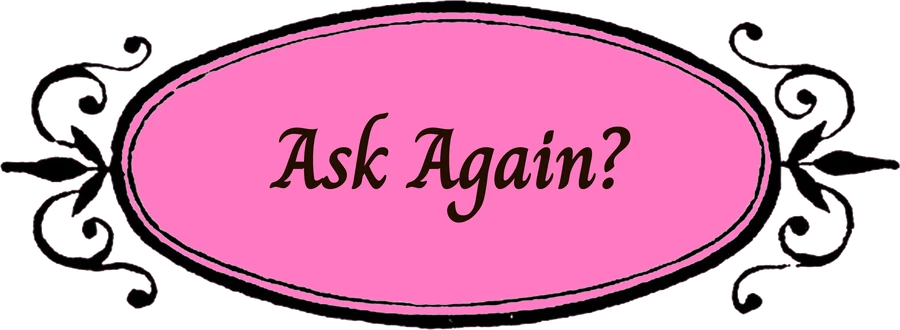
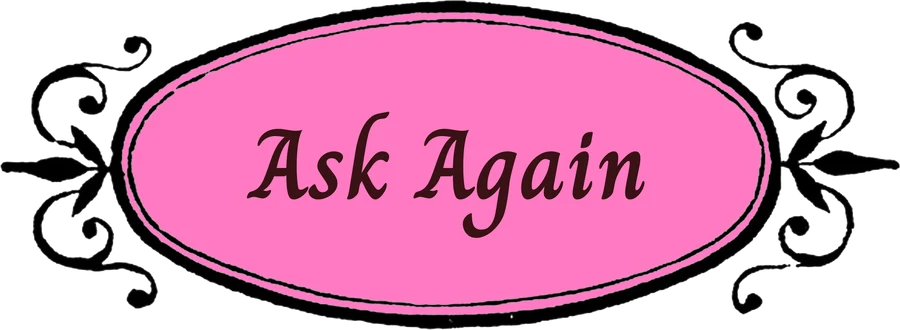
201 fortunes, snarky reading lines, Ask Again written on the new blank button

Changed region(s): [[0.2489, 0.3333, 0.7156, 0.7273]]

diff --git a/fortunes.js b/fortunes.js
@@ -1,109 +1,247 @@
-//Madame Chappell's fortunes. All original lines (no song lyrics), written to fit on the lace card.
-//Add, cut or rewrite freely: one string per fortune, roughly 130 characters max.
+//Madame Chappell's fortunes. One string per fortune, roughly 130 characters max so it fits the card.
+//Sections 1-3 are the user's lines; 4-5 were written with Claude.
 
 const FORTUNES = [
-  // ---- love, crushes and situationships ----
-  "The orb sees a situationship in your future. The orb also sees you calling it \"a vibe\" for eight months.",
-  "Someone is thinking about you right now. Unfortunately it is your ex, and they are thinking \"lol.\"",
-  "You will fall for a straight girl again. The spirits have stopped asking why.",
-  "A woman with a carabiner and an undercut will change your life. Or at least your Spotify.",
-  "Your next date will say \"I don't really listen to music.\" Run, babe. The orb is begging you.",
-  "The one who left you on read will watch your story within the hour. Post the good angle.",
-  "Love is coming. It is wearing a cowboy hat and it is twenty minutes late.",
-  "You will text \"we should hang out sometime\" and the spirits will scream into a pillow for you.",
-  "The orb sees a U-Haul. The orb sees it on the second date. The orb is not judging.",
-  "You are not \"too much.\" They were simply not enough. The orb has spoken, put your lashes back on.",
-  "Your crush has a playlist with your name on it. It is called \"don't.\" Proceed anyway, the orb loves drama.",
-  "A stranger at the merch line will become your soulmate, your roommate, or your reason for a group chat.",
-  "You will kiss someone under a disco ball and immediately tell the group chat. As is tradition.",
-  "Stop checking their horoscope. The orb checked. They're a mess.",
-  "Your soulmate also cried in a car in a Midwest parking lot. You will find each other.",
-  "Somebody's girlfriend is going to look at you a little too long tonight. The orb says: stay iconic, stay out of it.",
+  // --- 1. LOVE, DATING & SITUATIONSHIPS ---
+  "The cards say you’re about to get a 'u up?' text from someone who doesn't even own a bed frame.",
+  "I’m pulling the 'Good Luck, Babe!' card. Someone is gonna wake up in five years and realize they fumbled you.",
+  "Stop romanticizing bare-minimum behavior in a dive bar, honey.",
+  "Your aura is screaming 'I can fix them.' Spoiler alert: you cannot.",
+  "A tall, emotionally unavailable shadow is approaching. Put the phone on Do Not Disturb.",
+  "The universe is begging you to stop checking their Spotify activity.",
+  "You keep treating red flags like they’re a carnival parade. Stop it.",
+  "Someone from your past is thinking about you right now. Let them suffer.",
+  "You’re literally a headliner, so why are you letting them treat you like an opening act?",
+  "The crystal ball is showing a situationship ending because you finally got the ick.",
+  "A new crush is coming, and yes, they actually know how to communicate.",
+  "Put down the phone. Do not double-text. Spirit forbids it.",
+  "Your heart chakra is blocked by someone who wears cargo shorts to nice dinners.",
+  "The cards see you in the passenger seat of a situationship, and honestly? You’re enjoying the ride a little too much.",
+  "The stars say your next kiss will be theatrical, slightly chaotic, and totally worth it.",
+  "You’re about to realize you didn't miss them, you were just bored on a Tuesday.",
+  "Spirit says: 'If they wanted to, they would, babe.'",
+  "Someone has a massive crush on you, and they’re too intimidated by your outfits to say anything.",
+  "A dramatic late-night confession is in your future. Wear waterproof mascara.",
+  "Your love life is currently giving 'mid-tempo sad song,' but a banger is up next.",
+  "Stop giving wife/husband energy to people who can't even text back within 24 hours.",
+  "I’m seeing a future where you block them and immediately feel ten pounds lighter.",
+  "The cards are telling me you need to stop falling for people just because they have good hair.",
+  "A romantic plot twist is coming before the next full moon.",
+  "You are about to outgrow someone you used to beg for attention.",
+  "The spirits are applauding your recent decision to leave them on read.",
+  "Your next partner will match your freak and your Spotify Wrapped.",
+  "I see a messy makeout session in a crowded hallway in your near future.",
+  "Stop stalking their new partner’s Instagram. You’re hotter anyway.",
+  "The universe is sending you someone who actually plans dates.",
+  "You’re in your 'unbothered icon' era, even if you’re still slightly bothered.",
+  "A sweet serenade or an overly dramatic apology is headed your way.",
+  "Don't lower your standards just because Mercury is in retrograde.",
+  "I see you turning down a boring date to stay home and eat snacks. Good choice.",
+  "Someone is still mad that you moved on and glowed up.",
+  "Your aura says you’re ready for romance, but your nervous system says 'run.'",
+  "A casual hangout is about to accidentally turn into a full-blown romance.",
+  "The tarot deck literally just sighed when you asked about your ex.",
+  "You’re going to meet someone cute when you look like an absolute gremlin at the grocery store.",
+  "Stop trying to decode their mixed signals. Mixed signals mean no.",
+  "The spirits say you deserve flowers, devotion, and zero mind games.",
+  "I’m sensing a dramatic rain-soaked argument... or maybe you just forgot an umbrella.",
+  "Your next era involves way less crying over people who don't deserve you.",
+  "Someone is writing a notes-app apology to you as we speak.",
+  "You are too camp to be dating someone with zero personality.",
+  "A secret admirer is watching your stories within three minutes of you posting.",
+  "The crystal ball says: 'Delete their number, keep the playlist.'",
+  "You’re about to get swept off your feet, so wear comfortable boots.",
+  "Love is in the air, right next to the smell of cheap fog machines and hairspray.",
+  "Spirit confirms: you were right about them the whole time.",
 
-  // ---- glitter, outfits, drag ----
-  "Your outfit is not too much. Add more. The orb demands at least one more rhinestone.",
-  "Next week you will be asked \"what's the occasion?\" The answer is: you are the occasion.",
-  "The spirits see a themed outfit in your future. They also see you finishing it with a glue gun at 4 a.m.",
-  "A drag queen will compliment your eyeliner and you will think about it for the rest of your natural life.",
-  "Glitter you wore three years ago is still on you somewhere. It is your lucky charm. Do not wash it off.",
-  "You will find the perfect pink cowboy hat. It will be forty dollars. You will buy two.",
-  "The orb sees body paint, a wig and no plan. The orb sees a great night.",
-  "Someone will ask if you're dressed as a clown. You will say \"yes, and?\" and win the whole day.",
-  "Your eyeshadow will be so loud this week that a man will turn down his car stereo.",
-  "Wear the outfit. The orb has already seen the photos and you look like a Renaissance painting with Wi-Fi.",
-  "You will spend more on a costume than on rent. The spirits approve. Rent is temporary, looks are forever.",
+  // --- 2. CAREER, MONEY & AMBITION ---
+  "Your bank account is in retrograde, honey. Stop buying little treats to cope.",
+  "I see you dramatically quitting a job you hate in slow motion.",
+  "A sudden financial blessing is coming—mostly because you’re gonna forget to go out this weekend.",
+  "Spirit says you’re working way too hard for people who don’t even know the Hot To Go dance.",
+  "You are destined for greatness, glamour, and finally figuring out your taxes.",
+  "An unexpected email is going to make your week.",
+  "Stop answering work messages after 5 PM. The spirits demand boundaries.",
+  "I’m seeing a promotion, a raise, or at least a really good free lunch at work.",
+  "Your creative energy is peaking right now. Make something weird.",
+  "A risky project you’ve been putting off is actually going to pay off.",
+  "The cards say 'act your wage' until further notice.",
+  "Money flows to you effortlessly—right before it flows straight to iced coffee.",
+  "Someone in a position of power is about to notice your talent.",
+  "You’re about to have a 'fake it till you make it' moment that actually works.",
+  "Stop shrinking yourself to fit into a boring corporate box.",
+  "A lucrative side hustle is hovering in your aura.",
+  "I see you thriving in a career that makes your high school self proud.",
+  "The universe is clearing out dead-end opportunities to make room for your spotlight.",
+  "Take the leap. Worst-case scenario, it’s a funny story for later.",
+  "Your imposter syndrome is lying to you again. Tell it to shut up.",
+  "A big payday is on the horizon, so start planning your celebratory outfit.",
+  "You’re about to outshine everyone in the room without even trying.",
+  "Spirit advises against impulse-shopping at 2 AM tonight.",
+  "A collaboration with a friend is going to turn out way better than expected.",
+  "You are not behind in life; you’re just taking the scenic, more dramatic route.",
+  "The crystal ball shows you finally finishing that project you started six months ago.",
+  "Good luck is heading toward your wallet. Don't spend it all on concert tickets.",
+  "Your next big break comes right after you stop stressing about it.",
+  "The stars say you’re too talented to be stressed out over a spreadsheet.",
+  "A bold pitch or risky DM will open a huge door for you this month.",
+  "I see abundance, glitter, and zero overdraft fees in your future.",
+  "Your work ethic is unmatched, now match it with some actual rest.",
+  "Someone is going to ask you for advice because they secretly admire your hustle.",
+  "Trust your gut on that big decision. You already know what to do.",
+  "You’re entering your 'booked and busy' era.",
+  "A minor setback this week is actually saving you from a massive headache later.",
+  "The spirits say it’s time to raise your rates and your standards.",
+  "You will soon receive praise from someone who rarely gives it.",
+  "Put your ideas out there—someone is waiting for exactly what you do.",
+  "I’m seeing a sudden urge to reorganize your entire life at midnight.",
+  "Your talent cannot be gatekept forever. Keep going.",
+  "Financial stability is coming, right after this one last irresponsible purchase.",
+  "The universe rewards the bold, so go ask for what you want.",
+  "You are about to pivot into something that actually makes you happy.",
+  "Madame Chappell sees a raise in your future, and I take a 10% psychic fee.",
 
-  // ---- hometown, family, the Midwest ----
-  "Your mom will ask if you're \"still doing the music thing\" over dinner. Smile. The orb is on your side.",
-  "You will go back to your hometown and the Applebee's will feel smaller. That's called growth.",
-  "Somebody from high school will like a photo from 2019. The orb says: let them stew.",
-  "Your aunt will call your outfit \"brave.\" Take it as the highest compliment.",
-  "The cornfields are proud of you. The orb checked in with them personally.",
-  "Grandma knows. Grandma has always known. Grandma thinks your girlfriend is very polite.",
-  "A small town gave you big feelings. The orb says: take them to a big city and make them louder.",
-  "You will leave the group chat from high school this year. The orb will light a candle in its memory.",
-  "The church van that drove past you in 2014 is about to see you on a billboard. Patience.",
+  // --- 3. VIBES, DRAMA & MAIN CHARACTER ENERGY ---
+  "Your aura is giving 'crying in a small-town Taco Bell parking lot,' and honestly, it’s iconic.",
+  "A major transformation is coming. Mostly because you’re about to cut bangs at 2 AM.",
+  "You are the main character, even when the plot makes zero sense.",
+  "The spirits are loud tonight, babe, and honestly? They’re being a little dramatic.",
+  "I’m seeing a rhinestone cowboy hat in your future. Lean into it.",
+  "You’re about to turn a minor inconvenience into a three-act Broadway musical.",
+  "Your vibe right now is 'glamorous chaos,' and the universe loves it.",
+  "Someone in your circle is giving fake energy. We don't do fake. We do camp.",
+  "You’re gonna walk into a room this week and immediately become the most interesting person there.",
+  "The cards say you need to blast your favorite song and dance in your bedroom immediately.",
+  "A spontaneous road trip or late-night drive is written in the stars.",
+  "You’re about to be the best-dressed person at a very casual event.",
+  "Spirit says: 'Put on the glitter. Life is too short to be beige.'",
+  "Your intuition is razor-sharp right now. Trust every single gut feeling.",
+  "I see you escaping a boring hangout early to go live your best life.",
+  "You’re shedding old skin like a disco-ball snake.",
+  "A sudden burst of confidence is going to hit you out of nowhere this Friday.",
+  "The universe is begging you to stop apologizing for taking up space.",
+  "You are too much for boring people, and that is a massive compliment.",
+  "I’m sensing a legendary night out that starts with 'I’m only staying for one hour.'",
+  "Your next hair color or outfit change is going to alter your brain chemistry.",
+  "Spirit wants you to know that being a little delulu is working in your favor.",
+  "You’re about to deliver a comeback so good you’ll think about it for years.",
+  "The crystal ball is glowing bright pink. Good vibes are officially locked in.",
+  "Stop dimming your shine just so other people don't have to wear sunglasses.",
+  "I see you thriving in a new city—or at least a really cool new coffee shop.",
+  "Your life is a coming-of-age movie, and the soundtrack is incredible.",
+  "You’re about to let go of a grudge and immediately feel radiant.",
+  "Someone is going to copy your style this week. Take it as flattery.",
+  "The spirits say you’re overdue for a dramatic main-character walk in the wind.",
 
-  // ---- concerts, dancing, fandom ----
-  "You will learn a whole dance in the bathroom line and perform it perfectly for zero people.",
-  "Your concert outfit will make a security guard say \"okay!\" out loud. Destiny.",
-  "The orb sees you spelling something with your arms in a crowd of thousands. It is the most normal you will ever feel.",
-  "You will lose your voice screaming this weekend. It will come back gayer.",
-  "A friendship bracelet trade will lead to a friendship. The friendship will lead to a group trip. Pack sequins.",
-  "You will hear your favorite song at the grocery store and do a little shimmy in frozen foods. Someone will join in.",
-  "Your neighbors heard you singing in the shower. They have chosen to become fans.",
-  "The orb sees you camping out for barricade with a folding chair and absolutely no regrets.",
-  "Next time you're in a crowd, look left. That person will become your favorite stranger of the year.",
-  "You will dance in a pink-lit room with your whole chest. Bring water, the spirits worry.",
+  // --- 4. STRAIGHT FROM THE SETLIST ---
+  "The orb sees you moving to West Hollywood, getting a job you can't explain to your mom, and thriving.",
+  "Your mom's gonna cry about your career choices. Let her. The pole is calling.",
+  "Spirit says quit the 9-to-5 and dance in heels for strangers. Spiritually. Or literally, I don't judge.",
+  "You're 'just casual' with someone whose mom you've met twice. Babe. The orb is concerned.",
+  "The cards say you've been their girlfriend for six months without the title. Invoice them.",
+  "If they call it casual one more time, you're allowed to set the sheets on fire. Emotionally.",
+  "That straight girl who kissed you 'as a joke'? She's still thinking about it. Good luck to her, honestly.",
+  "Someone's gonna marry a man and think about you during the vows. The orb has seen the wedding. It's beige.",
+  "Stop explaining yourself to a girl who 'doesn't label things.' She's labeling her new boyfriend just fine.",
+  "The spirits demand you spell it out with your arms in public at least once this week.",
+  "You're about to be hot, you're about to go, and the orb is about to stop asking questions.",
+  "The person you need isn't on the apps. She's at drag brunch. Go.",
+  "Your dating profile is begging for a femininomenon and getting men named Chad. Change your filters.",
+  "The orb sees red wine, a magic wand and absolutely no sleep tonight. You know which wand.",
+  "Your next lover is a supernova. Bring a fire extinguisher and lube.",
+  "Your first time with a girl is going to be so good you'll text your therapist mid-week.",
+  "A big city, a cute girl and a very small apartment. The orb sees no clothes and no regrets.",
+  "Your ex just tripped into a puddle. The orb arranged it. Your kink has been noted.",
+  "The one who hurt you is about to watch you win. Enjoy it. It's cheaper than therapy.",
+  "You're an angel until 11:59. The orb has seen what happens after. It blushed.",
+  "Good girl by day, menace after midnight. The spirits approve of both.",
+  "You're entering your super graphic ultra modern era. Neon eyeliner is non-negotiable.",
+  "You'll see someone with your ex's haircut on the subway and have a full breakdown. Normal.",
+  "You moved away to become a star and now you miss your mom's casserole. The orb is crying with you.",
+  "Do not agree to 'just coffee' with your ex. Coffee is a gateway drug to sleeping together.",
+  "Kaleidoscope energy: you're about to see your feelings from every angle and hate all of them.",
+  "Stop being someone's guilty pleasure. You're the whole menu, babe.",
+  "Picture you, picture her, picture you deleting her number for real this time.",
+  "Rodeo queen energy: you're about to get thrown, get up, and look hotter doing it.",
+  "Someone is going to slide into your DMs quoting a Chappell song. Reply with a better one.",
 
-  // ---- self-worth and big dreams ----
-  "The thing you're scared to start is the thing you'll be famous for. Locally. Fabulously.",
-  "You will quit something boring this year and the spirits will throw you a small, glittery party.",
-  "Stop apologizing for being dramatic. Drama is a renewable energy source.",
-  "That job does not deserve you. The orb has seen your eyeliner and you are wasted on spreadsheets.",
-  "You are the main character. Unfortunately you are also the comic relief. Lean into it.",
-  "You will say \"no\" to something this week and feel so powerful you have to sit down.",
-  "Your big break is coming. The orb cannot say when. The orb is a ball, not a calendar.",
-  "Be delusional about your dreams. The orb has watched delusion become a career many times.",
-  "Somebody once said you'd never make it. They are now asking you for tickets.",
-  "Your inner child is screaming for a wig. Give her the wig.",
-  "The orb sees a bold new haircut in your future. The orb also sees you crying about it for one day. Then thriving.",
-  "This is the year you finally say what you want out loud. The spirits have the confetti ready.",
-
-  // ---- the truly mystical ----
-  "Mercury is in retrograde, but honestly so are you. Give yourself a break, babe.",
-  "The spirits are telling me... hold on... they are telling me to drink some water. And text your best friend.",
-  "Your rising sign is \"chaotic\" and your moon is in \"group chat.\" The orb sees no way to fix this.",
-  "The orb sees a mysterious figure in your future. It is a cat. It will choose you.",
-  "Three of Wands, Queen of Cups, and a crumpled receipt. The orb says: you're going on a trip. Bring snacks.",
-  "A great change is coming. The orb is ninety percent sure it's your hair color.",
-  "You will find a dollar on the ground. Do not spend it. It is a sign. It is also a dollar.",
-  "The ancestors are watching. They have opinions about your browser tabs.",
-  "The orb sees fog. The orb is cleaning itself. Ask again after it finishes its skincare routine.",
-  "The spirits have reviewed your energy and rated it five stars. One spirit said \"a bit loud.\" We've blocked that spirit.",
-  "A pigeon will make eye contact with you this week. Respect it. It knows things.",
-  "Your lucky number is 7. Your lucky color is hot pink. Your unlucky thing is replying \"lol\" to a long message.",
-  "The universe is sending you a message. It's in your spam folder. Check it.",
-  "Something you lost will come back to you this month. It's a hair clip. It was in your other bag.",
-  "The orb sees a road trip, a gas station snack haul and one dramatic karaoke moment. Prepare your ballad.",
-
-  // ---- one-liners ----
-  "Yes. Next question.",
-  "The orb says: girl, obviously.",
-  "Absolutely not. And the orb is never wrong. Except once. In 1997.",
-  "The answer is in your heart. The other answer is in your drafts. Send neither.",
-  "The orb is buffering. It says: be gayer and try again.",
-  "Hydrate, moisturize, and stop texting them. The orb has spoken.",
-  "Your future is bright. Like, unflattering-lighting bright. Wear sunglasses.",
-  "The orb sees nothing but sequins. That is either a vision or a reflection of me.",
+  // --- 5. MIDWEST PRINCESS, DRAG & JUST PLAIN FILTHY ---
+  "Small town, big wig, bigger dreams. The orb sees you crowned Midwest royalty by summer.",
+  "Your hometown thinks you're going through a phase. The phase has a girlfriend and a lip kit.",
+  "Your aura is a drag queen mid-death-drop. Commit to the landing.",
+  "Madame Chappell sees full drag, sky-high hair and you being louder than the speakers.",
+  "The orb sees a U-Haul, two cats and someone who makes you call them 'ma'am.' Proceed.",
+  "Your sex life is in retrograde. The spirits recommend a new toy and fewer men.",
+  "Someone is going to call you 'good girl' this month and you will be insufferable about it.",
+  "You're going to make out in a bathroom at a show and the line will clap.",
+  "Spirit says: ride the mechanical bull. Ride the metaphorical one too.",
+  "Your next hookup is a theater kid. Expect jazz hands in places you didn't expect.",
+  "You will spend three weeks on a themed outfit for a two-hour concert. Worth it.",
+  "Someone will ask your pronouns and your sign in the same breath. Marry them.",
+  "The orb sees scissors in your future. Not for crafts.",
+  "Your gaydar is broken because everyone you meet this month is bi. Embrace it.",
+  "A woman with a septum piercing is going to ruin your life in the best way.",
+  "You'll get a 'hey stranger' text at 2 a.m. The spirits say let it wait till brunch.",
+  "Your mom will finally say 'your friend' with air quotes. That's progress, babe.",
+  "Your next lover is a Scorpio with a tongue piercing. The orb will pray for you.",
+  "The girl in the leather jacket is not 'just a friend.' Nobody is just a friend in that jacket.",
+  "You will cry at a drag show, tip twenty bucks and feel spiritually reborn.",
+  "The orb sees fishnets, body glitter and a very confused uncle at Thanksgiving.",
+  "Your bisexual awakening is right on schedule. The orb keeps a calendar for these.",
+  "You'll dance on a table at a gay bar. You will fall off. You will still win.",
+  "Stop dating men who say 'I'm not like other guys.' He is exactly like other guys.",
+  "You're about to discover you have a type, and the type is 'emotionally unavailable redhead.'",
+  "A girl with a tote bag and a bad attitude is about to make you forget your own name.",
+  "You'll wear a wig to the grocery store and it will be the best decision of your year.",
+  "Your hometown bar is not ready for you. Go anyway. Wear the boots.",
+  "Your rizz is in retrograde. Fix it with a bold lip and a terrible pickup line.",
+  "The orb sees a hickey you'll have to explain at work. Say 'curling iron.' Nobody will believe you.",
+  "That ex who 'needs space' is about to get all of it. Forever.",
+  "Your future includes a mullet and a girlfriend who cuts it for you.",
+  "You'll finally kiss your gay best friend. The orb has questions. The orb also has popcorn.",
+  "Big hair, big lashes, big dreams. The orb says lean into all three.",
+  "Your sex playlist needs more Chappell and fewer acoustic covers.",
+  "The orb sees you saying 'I'm not jealous' while being extremely jealous. Iconic behavior.",
+  "Your manifestation journal is mostly about one person. Burn it. Start one about you.",
+  "A stranger will compliment your rings. Your fingers are about to be very busy.",
+  "Stop sleeping with your roommate's ex. Or don't. The orb is not your mom.",
+  "You'll wake up in someone's bed wearing their band tee and absolutely no shame.",
+  "Pink is your color, chaos is your love language, and Friday is your night.",
+  "Your crush likes girls. Your crush likes you. Your crush is just slow. Give it a week.",
+  "You're the femme fatale your hometown warned everyone about.",
+  "Someone's boyfriend is about to become your problem. Do not make him your problem.",
+  "Don't make out with the bartender. Fine. Make out with the bartender.",
+  "The orb sees a costume so ambitious it needs its own seat on the plane.",
 ];
 
 //The rare golden ones: about 1 in 25 readings
 const RARE_FORTUNES = [
-  "The orb has gone gold. That means you are legally required to be the gayest person in every room for one full week.",
-  "Golden prophecy: everything you manifested in the shower this year is on its way. Including the one you said as a joke.",
-  "The spirits have crowned you Prom Queen of the Astral Plane. Your sash and tiara are in the mail.",
-  "Golden orb! The next person to compliment you will be someone you admire deeply. Act casual. You will not act casual.",
+  "GOLD ORB. You're getting laid, paid and adored this month. In that order. Probably.",
+  "Golden prophecy: the hottest person at the next show will ask for your number. Say yes before they finish the sentence.",
+  "The orb has gone gold. You are legally the gayest, hottest person in every room for one full week.",
+  "Golden prophecy: everything you manifested in the shower this year is on its way. Especially the dirty ones.",
 ];
 
-const WELCOME = "Cross my palm with glitter, babe. The spirits are fashionably late, but they're here.";
+//What Chappell says on the card while she's down behind the orb (one picked at random each time)
+const READING_LINES = [
+  "Hold on, the orb is buffering...",
+  "Shh. The spirits are gossiping about you.",
+  "Ugh, your aura is so loud.",
+  "Don't rush me, I'm a Midwest princess.",
+  "Babe, the orb doesn't do refunds.",
+  "Hold still. Your energy is... a lot.",
+  "The spirits just said 'oh no.' Anyway.",
+  "Wow. Okay. You really asked that?",
+  "Let me consult my wig.",
+  "The orb's in a mood. Same.",
+  "Hang on, the spirits are fixing their lashes.",
+  "Sorry, the orb is texting your ex.",
+  "Mmm, spicy. Let me look closer.",
+  "You again? Fine.",
+  "Patience, pony girl.",
+  "The tea is steeping, hold your horses.",
+  "Ask nicely next time.",
+  "This one's gonna cost you emotionally.",
+];
+
+const WELCOME = "Come closer, babe. The orb is warm, the spirits are horny, and I'm ready to read you.";

diff --git a/sketch.js b/sketch.js
@@ -19,7 +19,7 @@ const INK = '#2B1022', YELLOW = '#FFE36E', PINK = '#F25FBF', CARD_INK = '#2A1410
 let man, IMG = {}, bgImg, laceImg, btnImg;
 let sc = 1, ox = 0, oy = 0;
 let state = 'idle';                  //idle -> reading -> shown
-let readAt = -99999, cardText = '', isRare = false, deck = [], firstRead = true;
+let readAt = -99999, cardText = '', isRare = false, deck = [], firstRead = true, readingLine = '';
 let energy = 0, rareGlow = 0;        //how hard the hands and orb are going (0..1)
 let sparks = [], pressedAt = -9999;
 
@@ -226,7 +226,7 @@ function drawCard(since) {
   let str = cardText, alpha = 255, shown = Infinity;
   if (state === 'reading') {
     if (since < 300) alpha = 255 * (1 - since / 300);                          //old one fades away
-    else if (since < READ_MS + 100) { str = 'the spirits are typing' + '.'.repeat(1 + floor(since / 350) % 3); alpha = 150; }
+    else if (since < READ_MS + 100) { str = readingLine; alpha = 170; }                //her snark while she reads
     else shown = floor(cardText.length * constrain((since - READ_MS - 100) / REVEAL_MS, 0, 1));
   }
 
@@ -326,6 +326,7 @@ function tellFortune() {
   state = 'reading';
   readAt = millis();
   cardText = nextFortune();
+  readingLine = random(READING_LINES.filter(l => l !== readingLine));   //never the same twice in a row
   firstRead = false;
   setTimeout(() => {
     if (isRare) confetti();

diff --git a/tools/make_assets.py b/tools/make_assets.py
@@ -75,8 +75,21 @@ bg = Image.open('Assets/Background/Background_Pink.png').convert('RGB')
 save(bg.resize((1920, 1080), Image.LANCZOS), 'background', 80)
 
 # Ask Again button (the user's art, words included)
+# The frame comes without words (and with a see-through middle): fill the oval pink and
+# write "Ask Again" in Charm Bold, the fortune font.
+from PIL import ImageDraw, ImageFont
 btn = Image.open('Assets/Background/Ask Again.png').convert('RGBA')
 btn = btn.crop(btn.getbbox())
+BTN_PINK, BTN_INK = (255, 122, 194, 255), (58, 18, 22, 255)
+walls = btn.getchannel('A').point(lambda a: 255 if a > 140 else 0)      # the black frame lines
+ImageDraw.floodfill(walls, (btn.width // 2, btn.height // 2), 128)       # everything inside the oval
+inside = walls.point(lambda v: 255 if v == 128 else 0)
+fill = Image.new('RGBA', btn.size, BTN_PINK)
+under = Image.new('RGBA', btn.size, (0, 0, 0, 0)); under.paste(fill, (0, 0), inside)
+under.alpha_composite(btn); btn = under
+d = ImageDraw.Draw(btn)
+font = ImageFont.truetype('fonts/Charm-Bold.ttf', round(btn.height * 0.30))
+d.text((btn.width / 2, btn.height / 2), 'Ask Again', font=font, fill=BTN_INK, anchor='mm')
 save(btn.resize((900, round(900 * btn.height / btn.width)), Image.LANCZOS), 'ask-again')
 man['button'] = {'aspect': round(btn.height / btn.width, 4)}
 
